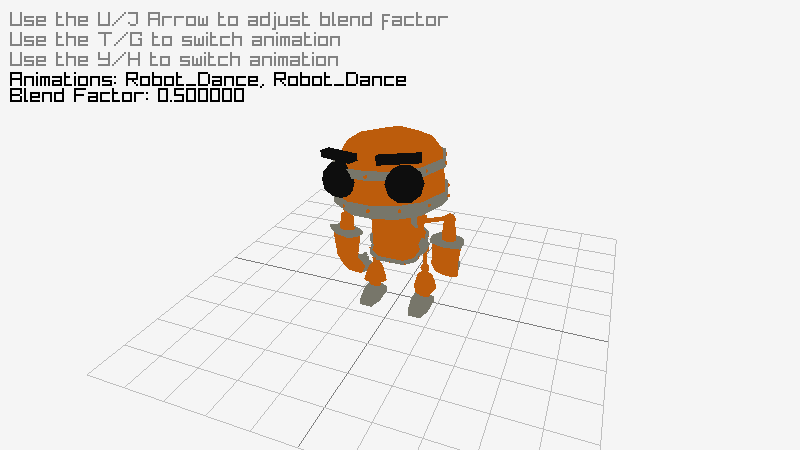
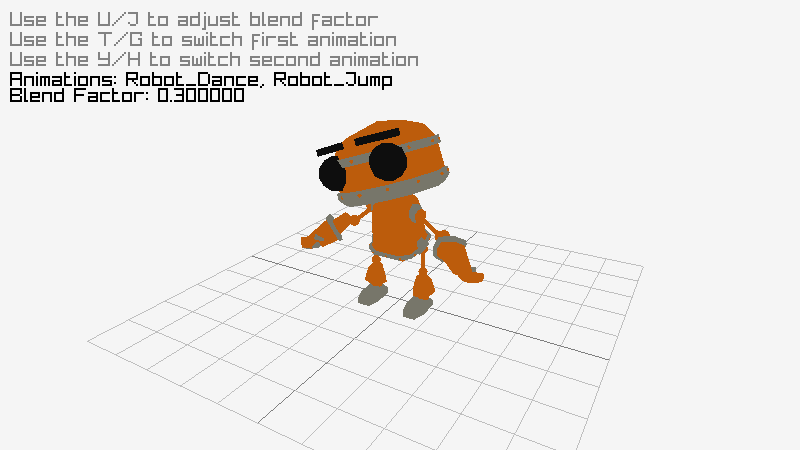
[rmodels] Fixed typos in anmation blending example

diff --git a/examples/models/models_animation_blending.c b/examples/models/models_animation_blending.c
@@ -115,9 +115,9 @@ int main(void)
                 
             EndMode3D();
 
-            DrawText("Use the U/J Arrow to adjust blend factor", 10, 10, 20, GRAY);
-            DrawText("Use the T/G to switch animation", 10, 30, 20, GRAY);
-            DrawText("Use the Y/H to switch animation", 10, 50, 20, GRAY);
+            DrawText("Use the U/J to adjust blend factor", 10, 10, 20, GRAY);
+            DrawText("Use the T/G to switch first animation", 10, 30, 20, GRAY);
+            DrawText("Use the Y/H to switch second animation", 10, 50, 20, GRAY);
             DrawText(TextFormat("Animations: %s, %s", modelAnimations[animIndex0].name, modelAnimations[animIndex1].name), 10, 70, 20, BLACK);
             DrawText(TextFormat("Blend Factor: %f", blendFactor), 10, 86, 20, BLACK);
 

diff --git a/examples/README.md b/examples/README.md
@@ -137,7 +137,7 @@ Examples using raylib models functionality, including models loading/generation 
 | ## | example  | image  | difficulty<br>level | version<br>created | last version<br>updated | original<br>developer |
 |----|----------|--------|:-------------------:|:------------------:|:------------------:|:----------|
 | 85 | [models_animation](models/models_animation.c) | <img src="models/models_animation.png" alt="models_animation" width="80"> | ⭐⭐☆☆ | 2.5 | 3.5 | [culacant](https://github.com/culacant) |
-| 86 | [models_animation_blending](models/models_animation_blending.c) | <img src="models/models_animation_blending.png" alt="models_animation" width="80"> | ⭐⭐☆☆ | 2.5 | 3.5 | [Kirandeep-Singh-Khehra](https://github.com/Kirandeep-Singh-Khehra) |
+| 86 | [models_animation_blending](models/models_animation_blending.c) | <img src="models/models_animation_blending.png" alt="models_animation_blending" width="80"> | ⭐⭐☆☆ | 2.5 | 3.5 | [Kirandeep-Singh-Khehra](https://github.com/Kirandeep-Singh-Khehra) |
 | 87 | [models_billboard](models/models_billboard.c) | <img src="models/models_billboard.png" alt="models_billboard" width="80"> | ⭐⭐⭐☆ | 1.3 | 3.5 | [Ray](https://github.com/raysan5) |
 | 88 | [models_box_collisions](models/models_box_collisions.c) | <img src="models/models_box_collisions.png" alt="models_box_collisions" width="80"> | ⭐☆☆☆ | 1.3 | 3.5 | [Ray](https://github.com/raysan5) |
 | 89 | [models_cubicmap](models/models_cubicmap.c) | <img src="models/models_cubicmap.png" alt="models_cubicmap" width="80"> | ⭐⭐☆☆ | 1.8 | 3.5 | [Ray](https://github.com/raysan5) |
